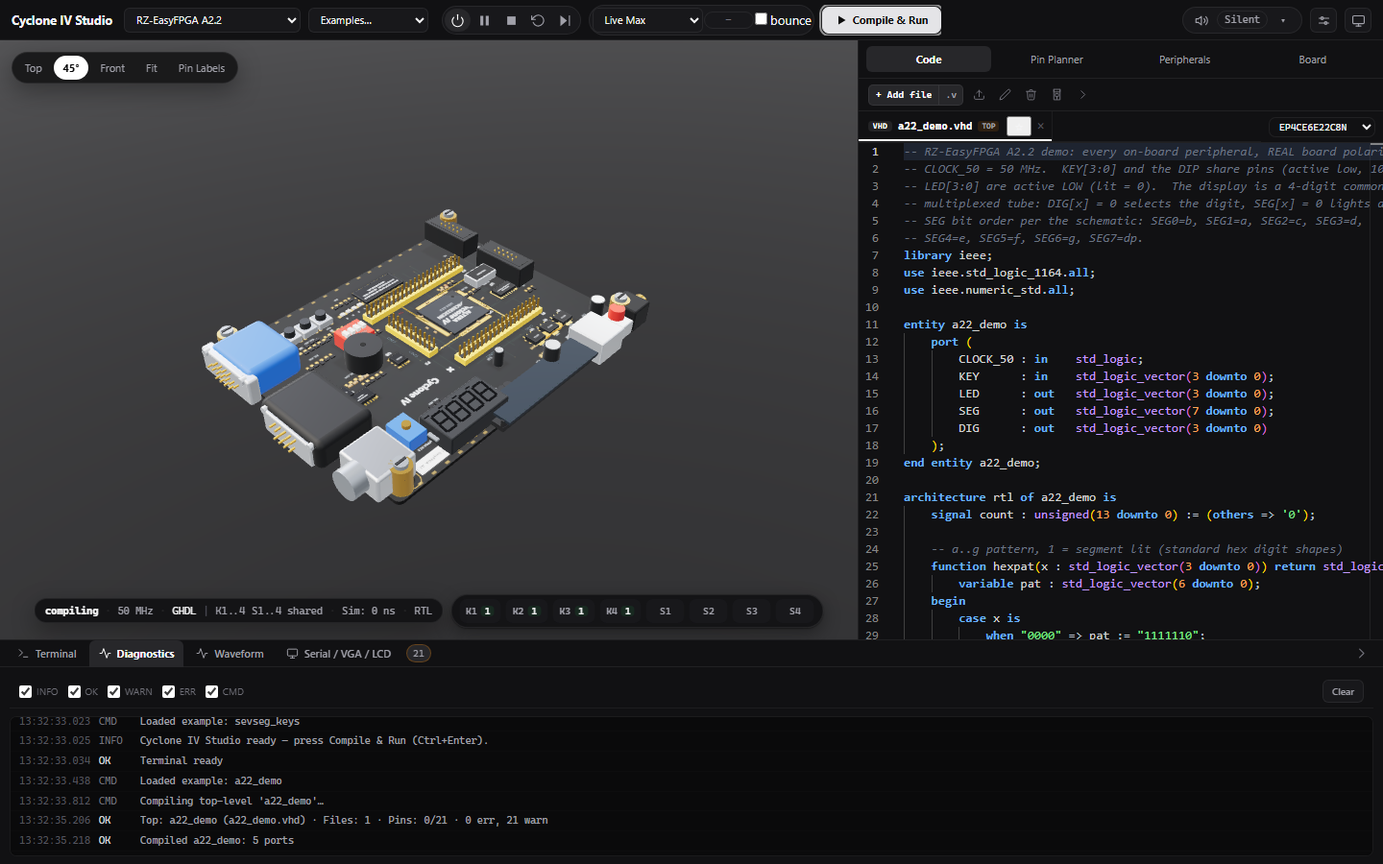
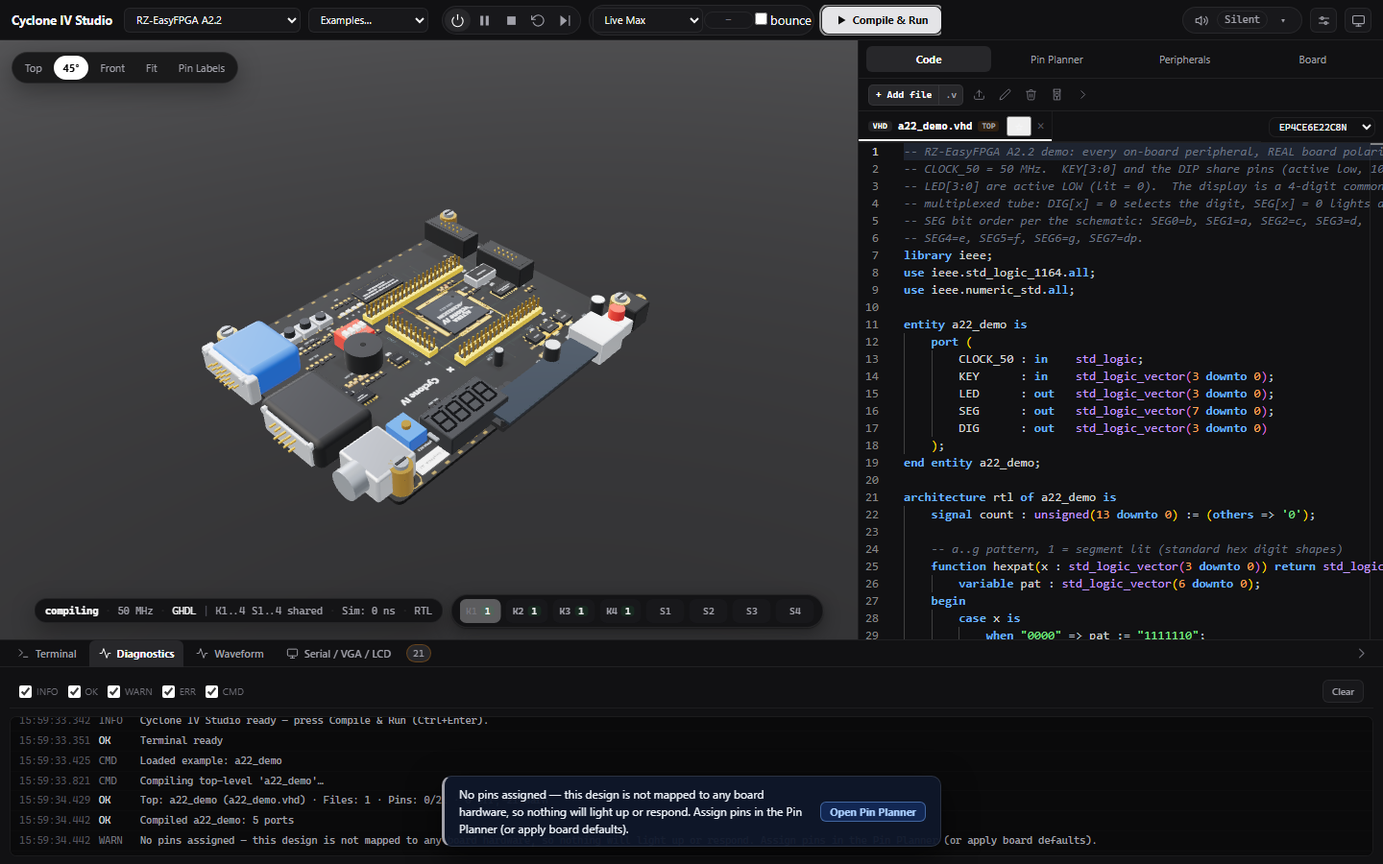
Notify when the Pin Planner has no assignments after compile
A design that compiles with an empty Pin Planner is not mapped to any board hardware: nothing lights up or responds. After a successful compile, the app now raises a warning toast (with an Open Pin Planner action), logs the same warning, and surfaces the per-port unassigned warnings that were already computed. The check is a pure helper (ui/pinCoverage.js) with vitest coverage; the Playwright smoke asserts the toast appears on a fresh compile.

Changed region(s): [[0.0312, 0.8089, 0.7812, 0.9956], [0.3125, 0.6844, 0.375, 0.7156]]

diff --git a/frontend/src/main.js b/frontend/src/main.js
@@ -11,6 +11,7 @@ import { ApiClient, SimSession } from "./api.js";
 import { createStore } from "./state.js";
 import { createToolbar } from "./ui/toolbar.js";
 import { isEditableTarget } from "./ui/editableGuard.js";
+import { pinCoverageWarning } from "./ui/pinCoverage.js";
 import { reduceLiveVga, reduceUartBytes } from "./liveFrame.js";
 import { createSidebar } from "./ui/sidebar.js";
 import { createEditorPanel } from "./ui/editorPanel.js";
@@ -1100,6 +1101,18 @@ async function compileAndProgram() {
     toolbar.setStep(1, "done");
     toolbar.setStep(2, "done");
     log(`Compiled ${S.entity.name}: ${S.entity.ports.length} ports`, "ok");
+
+    // Pin Planner coverage: a design that compiles but has no pin assignments
+    // is not mapped to any board hardware — nothing will light up or respond.
+    // Make that unmissable and hand the user the one-click fix.
+    const pinWarning = pinCoverageWarning(updatedPinPlan?.validation);
+    if (pinWarning) {
+        log(pinWarning, "warn");
+        toast(pinWarning, {
+            kind: "warn", timeout: 10000,
+            action: { label: "Open Pin Planner", onClick: () => safeCall(() => sidebar?.showTab?.("pinmap")) },
+        });
+    }
 
     safeCall(() => board?.setDesign?.(S.compileBoard));
     safeCall(() => board?.resetVisual?.());

diff --git a/frontend/src/ui/pinCoverage.test.js b/frontend/src/ui/pinCoverage.test.js
@@ -1,0 +1,23 @@
+import { describe, it, expect } from "vitest";
+import { pinCoverageWarning } from "./pinCoverage.js";
+
+describe("pinCoverageWarning", () => {
+    it("warns when nothing is assigned", () => {
+        const msg = pinCoverageWarning({ assignedCount: 0, unassignedCount: 21 });
+        expect(msg).toContain("No pins assigned");
+        expect(msg).toContain("Pin Planner");
+    });
+
+    it("stays silent when at least one port is assigned", () => {
+        expect(pinCoverageWarning({ assignedCount: 3, unassignedCount: 18 })).toBeNull();
+    });
+
+    it("stays silent when everything is assigned", () => {
+        expect(pinCoverageWarning({ assignedCount: 21, unassignedCount: 0 })).toBeNull();
+    });
+
+    it("treats a missing validation as nothing to warn about", () => {
+        expect(pinCoverageWarning(null)).toBeNull();
+        expect(pinCoverageWarning({})).toBeNull();
+    });
+});

diff --git a/frontend/src/ui/pinCoverage.js b/frontend/src/ui/pinCoverage.js
@@ -1,0 +1,20 @@
+// pinCoverage.js — pure helper deciding whether a compiled design is
+// missing its Pin Planner assignments (nothing mapped to board hardware).
+
+/**
+ * Returns a user-facing warning message when the compiled design has no pin
+ * assignments at all, or null when at least one port is assigned (or when
+ * there is nothing assignable — e.g. an empty interface).
+ */
+export function pinCoverageWarning(validation) {
+    const v = validation || {};
+    const assigned = Number(v.assignedCount ?? 0);
+    const unassigned = Number(v.unassignedCount ?? 0);
+    const assignable = assigned + unassigned;
+    if (assignable > 0 && assigned === 0) {
+        return "No pins assigned — this design is not mapped to any board hardware, "
+            + "so nothing will light up or respond. Assign pins in the Pin Planner "
+            + "(or apply board defaults).";
+    }
+    return null;
+}

diff --git a/frontend/e2e/live3d.spec.js b/frontend/e2e/live3d.spec.js
@@ -18,6 +18,12 @@ test("live 3D board smoke", async ({ page }) => {
     const exampleSelect = page.locator("#tb-examples");
     await exampleSelect.selectOption({ index: 1 }).catch(() => {});
     await page.locator("#tb-compile").click();
+
+    // The Pin Planner ships empty: the app must warn that no port is mapped
+    // to board hardware yet (actionable toast pointing at the Pin Planner).
+    await expect(page.locator(".toast-warn").filter({ hasText: "No pins assigned" }))
+        .toBeVisible({ timeout: 30_000 });
+
     // The live pill appears once the batch capture hands over to live mode.
     await expect(page.locator("#tb-live-pill")).toBeVisible({ timeout: 60_000 });
 

diff --git a/tests/RESULTS.md b/tests/RESULTS.md
@@ -1,10 +1,10 @@
 # QA results
 
-Generated: 2026-11-21 13:31:46
+Generated: 2026-11-21 16:09:07
 GHDL: GHDL 6.0.0 (6.0.0.r0.ge589c698c.dirty) [Dunoon edition]
-Wall time: 165.7s
+Wall time: 155.0s
 Jobs: 8
-Cache: 4 hits, 139 misses, 28 fallbacks
+Cache: 5 hits, 137 misses, 29 fallbacks
 Units: 250 passed (pytest tests/)
 Total: 236  PASS: 236  FAIL: 0
 
@@ -20,10 +20,10 @@ Total: 236  PASS: 236  FAIL: 0
 | IN-05B | QSF pin/top/IO-standard/file-list parsing is complete | QSF | TOP_LEVEL_ENTITY, 8 pin assignments, IO_STANDARD and file list all visible in the result | top, 8 pins, IO_STANDARD and file list parsed from the vendor .qsf | PASS |
 | IN-05C | QSF errors: invalid pin, duplicate pin, unknown port, wrong device | QSF | Each problem produces a specific error naming the pin/port; the simulation does not start | 4 specific errors: invalid pin, duplicate pin, unknown port, wrong device | PASS |
 | IN-08 | QSF pin assignments are validated against the top-level ports | QSF | A pin assigned to a port that exists is honoured; the missing-pin warning stays quiet for those ports | no unpinned-port warnings for ports the .qsf assigns | PASS |
-| IN-09 | VHDL syntax error reports file and line | VHDL | GHDL diagnostic with line number, no crash | ?:3: Expected ':' in interface declaration \| ?:1: Unexpected end of file inside entity declaration \| C:\Users\rober\AppData\Local\Temp\cyclone_compile_2xcf1wmw\design.vhd:3: interface declaration expected \| C:\Users\rob… | PASS |
+| IN-09 | VHDL syntax error reports file and line | VHDL | GHDL diagnostic with line number, no crash | ?:3: Expected ':' in interface declaration \| ?:1: Unexpected end of file inside entity declaration \| C:\Users\rober\AppData\Local\Temp\cyclone_compile_i9w8oo1a\design.vhd:3: interface declaration expected \| C:\Users\rob… | PASS |
 | IN-10 | Verilog syntax error reports file and line | Verilog | Diagnostic with line number naming the missing endmodule | design.vhd:1: Missing 'endmodule' for module 'broken' | PASS |
-| IN-11 | Unsupported Altera primitive gives a clear error | VHDL | Error names the unbound Altera megafunction (altsyncram/lpm_*) | c:\users\rober\appdata\local\temp\cyclone_qa_worker_jffh_4an\cache\sources\972673e3c3d96009ffb68150d6d3b862754c19218c822e19e358ac1a0380f471\design.vhd:84: instance "u_ram" of component "altsyncram" is not bound \| c:\use… | PASS |
-| IN-12 | Mixed-language project (VHDL top + Verilog submodule) | VHDL+Verilog | Malformed mixed input is rejected with a file:line diagnostic (split .vhd/.v files) | C:\Users\rober\AppData\Local\Temp\cyclone_qa_worker_a7od1_nh\cache\sources\982dd5b1e97dde689022d5eaa4a2bad027c7ebe00bf16a84a5614ba9a4676c11\design.vhd:11: missing entity, architecture, package or configuration \| C:\User… | PASS |
+| IN-11 | Unsupported Altera primitive gives a clear error | VHDL | Error names the unbound Altera megafunction (altsyncram/lpm_*) | c:\users\rober\appdata\local\temp\cyclone_qa_worker_vm2m7gli\cache\sources\972673e3c3d96009ffb68150d6d3b862754c19218c822e19e358ac1a0380f471\design.vhd:84: instance "u_ram" of component "altsyncram" is not bound \| c:\use… | PASS |
+| IN-12 | Mixed-language project (VHDL top + Verilog submodule) | VHDL+Verilog | Malformed mixed input is rejected with a file:line diagnostic (split .vhd/.v files) | C:\Users\rober\AppData\Local\Temp\cyclone_qa_worker_lwzhd5dz\cache\sources\982dd5b1e97dde689022d5eaa4a2bad027c7ebe00bf16a84a5614ba9a4676c11\design.vhd:11: missing entity, architecture, package or configuration \| C:\User… | PASS |
 | CLK-01 | Board clock frequency and pin are modelled | VHDL | CLOCK_50 = 50 MHz on pin PIN_23; the result reports the board frequency | CLOCK_50 = 50 MHz on PIN_23 | PASS |
 | CLK-02 | Counter at the real clock rate matches expected count after N ms | VHDL | 100 ns at 10 ns period, reset 2 cycles -> count = 8 | count=8 after 100 ns | PASS |
 | CLK-03 | Clock scaling makes a 1 Hz blinker visible in real time | VHDL | Scale factor reported; 1 Hz blinker toggles once per simulated second at 50 MHz | scale={'boardClockHz': 50000000, 'simClockHz': 100000000, 'scale': 2.0, 'note': 'simClockHz is the simulated clock rate; a design cycles the same number of clock ticks per simulated second as on the board, so wall-clock… | PASS |
@@ -102,8 +102,8 @@ Total: 236  PASS: 236  FAIL: 0
 | ENG-01 | Raw VCD export works from the CLI/keep-dir path | VHDL | VCD file is produced and matches the final LED value | VCD wave.vcd (1277 bytes) | PASS |
 | ENG-01B | Waveform export button/endpoint in the web UI | UI | A UI action downloads VCD/FST | Export VCD control present (frontend/src) | PASS |
 | ENG-02 | Waveform matches board state at the same timestamp | VHDL | Cycle samples and final state agree with LED/switch values | all 10 cycles agree (key_edge, 1 press) | PASS |
-| ENG-03 | Stop/cancel a running simulation | UI | sim_stop kills the server-side GHDL run and emits sim_stopped within 10 s (the uncanceled long_run fixture needs minutes of wall time) | sim_stopped after 0.06 s; whole cycle 4.5 s (uncanceled run: minutes) | PASS |
-| ENG-03B | Stop is a kill, not a wait: GHDL child exits promptly | API | Simulator.cancel() ends a minutes-long run within ~5 s | worker exited 0.1 s after cancel (killed=True) | PASS |
+| ENG-03 | Stop/cancel a running simulation | UI | sim_stop kills the server-side GHDL run and emits sim_stopped within 10 s (the uncanceled long_run fixture needs minutes of wall time) | sim_stopped after 0.10 s; whole cycle 4.3 s (uncanceled run: minutes) | PASS |
+| ENG-03B | Stop is a kill, not a wait: GHDL child exits promptly | API | Simulator.cancel() ends a minutes-long run within ~5 s | worker exited 0.0 s after cancel (killed=True) | PASS |
 | ENG-04 | Re-upload during a running sim leaves no stale state | VHDL | A second upload starts from a fresh temp directory | 0xFF then 0x00, no stale state | PASS |
 | ENG-11 | Server health reports GHDL | API | GET /api/health -> ok | GHDL 6.0.0 (6.0.0.r0.ge589c698c.dirty) [Dunoon edition] | PASS |
 | ENG-12 | Concurrent HTTP simulations are isolated | API | Two different designs run at the same time without interference | not-gate=0, buffer=1 concurrently | PASS |
@@ -134,7 +134,7 @@ Total: 236  PASS: 236  FAIL: 0
 | SPEC-11 | Device profile: 91 user I/O, both trainer chips selectable | infra | EP4CE6E22C8N and EP4CE10E22C8N both report 91 user I/O and the handbook resources | 91 user I/O on both variants; resources match the handbook | PASS |
 | SPEC-12 | Every pin in vendor/Pinos_RZEasyFPGA.txt matches the profile | infra | clock/reset/keys/LED/SEG/DIG/SDRAM/VGA/PS2/UART/I2C/IR/buzzer/LCD pins all agree | all 86 vendor pins match the simulator profile | PASS |
 | BJ-01 | board.json pinMap matches every vendor pin assignment | infra | all 86 vendor pins present with the same PIN numbers | 86 vendor pins match board.json | PASS |
-| BJ-02 | Every fact in board.json carries VERIFIED/INFERRED/UNVERIFIED | infra | 34 facts, all tagged, no empty sources | 39 facts tagged: {'VERIFIED': 33, 'INFERRED': 1, 'UNVERIFIED': 5} | PASS |
+| BJ-02 | Every fact in board.json carries VERIFIED/INFERRED/UNVERIFIED | infra | 34 facts, all tagged, no empty sources | 39 facts tagged: {'UNVERIFIED': 5, 'INFERRED': 1, 'VERIFIED': 33} | PASS |
 | BJ-03 | No hard-coded pin numbers in backend or frontend runtime code | infra | zero PIN_<number> literals outside board.json, specs and tests | scanned 24 runtime files, no PIN_<n> literals | PASS |
 | BJ-04 | Backend profile is loaded from board.json (not duplicated) | infra | BOARD pins, SEG map, I2C addresses and SDRAM DQ equal board.json | backend BOARD/DEVICE mirror board.json | PASS |
 | BJ-05 | All board.json pins are valid EQFP-144 and uniquely owned | infra | every pin in 1..144; only KEY/DIP share pins 88-91 by design | 90 pin entries; only KEY/DIP share nets | PASS |
@@ -171,7 +171,7 @@ Total: 236  PASS: 236  FAIL: 0
 | RB-01 | VHDL parser survives random binary garbage | fuzz | 200 random inputs: no exception, no hang | 200 random inputs parsed without an exception | PASS |
 | RB-02 | QSF parser survives garbage and a 1 MB file | fuzz | random garbage + 1 MB input: no exception, bounded time | garbage + 1 MB qsf parsed without an exception (0.07s) | PASS |
 | RB-03 | WebSocket survives malformed and unknown messages | WS | invalid JSON -> error; unknown type -> error; ping -> pong; connection stays open | malformed/unknown WS messages rejected; connection stayed open | PASS |
-| RB-04 | A huge VHDL file (5k lines) compiles without unbounded memory | VHDL | compile succeeds in bounded time | 5k-line VHDL compiled in 0.68s | PASS |
+| RB-04 | A huge VHDL file (5k lines) compiles without unbounded memory | VHDL | compile succeeds in bounded time | 5k-line VHDL compiled in 0.54s | PASS |
 | RB-05 | HDL textio with literal absolute host paths is rejected | VHDL | the pre-scan rejects the design with a clear error; no host file is written | absolute textio read+write rejected before GHDL (clear error, no host file written) | PASS |
 | RB-05B | Relative textio stays confined to the workdir and works | VHDL | a design that writes out.txt (relative) and reads it back passes end-to-end | relative textio write+read round-trips inside the throw-away workdir | PASS |
 | RB-06 | Concurrent simulations are isolated | VHDL | two designs run at once; each result matches its own design | two concurrent simulations isolated (not=0, buffer=1) | PASS |
@@ -183,7 +183,7 @@ Total: 236  PASS: 236  FAIL: 0
 | SEM-01 | Delta-cycle ordering: signal updates land on later edges | VHDL | a registered chain a->b->c: at edge 1 only a is new; b/c follow on later edges | signal updates propagate one edge per register: c lags a by two edges (seen=100) | PASS |
 | SEM-02 | Variable updates are immediate; signal updates are deferred | VHDL | q_var shows the new input one edge earlier than q_sig | q_var toggles immediately, q_sig one edge behind (16 vs 15 transitions) | PASS |
 | SEM-03 | std_logic resolution: 0/1/Z/X/U/H/L/- table | VHDL | 0&Z=0, 1&H=1, H alone=H, L&0=0, 0&1=X, undriven=U (RESULT bit i set per rule) | 0&Z=0, 1&H=1, H=H, L&0=0, 0&1=X, undriven=U — all six rules observed | PASS |
-| SEM-04 | Multiple drivers on an unresolved type are a clear error | VHDL | two processes drive one integer signal -> GHDL 'multiple drivers' error, no silent result | rejected with: C:\Users\rober\AppData\Local\Temp\cyclone_sim_u2bjl7_y\design.vhd:8: too many drivers for signal "comm" | PASS |
+| SEM-04 | Multiple drivers on an unresolved type are a clear error | VHDL | two processes drive one integer signal -> GHDL 'multiple drivers' error, no silent result | rejected with: C:\Users\rober\AppData\Local\Temp\cyclone_sim_f9amqcfe\design.vhd:8: too many drivers for signal "comm" | PASS |
 | SEM-05 | numeric_std overflow wraps (mod 2^n) | VHDL | unsigned 255+1 -> 0; signed 127+1 -> -128 (10000000) | unsigned 0xFF+1 -> 0x00; signed 0x7F+1 -> -128 (two's-complement wrap) | PASS |
 | SEM-06 | Generics change width and behaviour | VHDL | WIDTH=12 counter wraps at 4095; WIDTH=4 wraps at 15 | WIDTH=4 -> q=10 (max 15); WIDTH=12 -> q=10 (max 4095); same stimulus | PASS |
 | SEM-07 | Generate loop instantiates N parallel slices | VHDL | 8 independent inverter slices; changing one input bit changes exactly that output bit | 8 slices generated; d=0x05 -> 11111010, d=0x01 -> 11111110 (only the toggled bit changed) | PASS |
@@ -220,7 +220,7 @@ Total: 236  PASS: 236  FAIL: 0
 | TSC-05 | 7-segment scan rate scales with the clock period | VHDL | the digit-select toggle period doubles when the clock period doubles | 7-seg digit toggle 20.0 ns at 10 ns clock vs 40.0 ns at 20 ns (ratio 2.00) | PASS |
 | DET-01 | The same request twice produces identical waveforms | VHDL | two identical simulations: identical signal transitions, cycles and final state | identical waveforms over 30 cycles (cache hit on the repeat) | PASS |
 | DET-02 | Two Simulator instances share no state | VHDL | a cached and an uncached Simulator return identical, independent results | cached and uncached Simulators agree; instance reuse does not leak state | PASS |
-| DET-03 | Runs leave no stale temp directories or zombie GHDL processes | infra | temp dir count and ghdl.exe process count return to baseline after simulations | 3 runs: temp dirs 21->18, ghdl processes 1->0 (no zombies, no stale dirs) | PASS |
+| DET-03 | Runs leave no stale temp directories or zombie GHDL processes | infra | temp dir count and ghdl.exe process count return to baseline after simulations | 3 runs: temp dirs 23->22, ghdl processes 4->3 (no zombies, no stale dirs) | PASS |
 | QSIM-01 | Differential: counter - backend vs ModelSim (Quartus toolchain) | VHDL | every port's value timeline is identical between the backend waveform and ModelSim-Altera running the same design + auto testbench | counter: 3 ports identical between backend.simulate() and ModelSim win32aloem | PASS |
 | QSIM-02 | Differential: FSM (Moore traffic light) - backend vs ModelSim (Quartus toolchain) | VHDL | every port's value timeline is identical between the backend waveform and ModelSim-Altera running the same design + auto testbench | traffic_moore: 5 ports identical between backend.simulate() and ModelSim win32aloem | PASS |
 | QSIM-03 | Differential: dual-port RAM - backend vs ModelSim (Quartus toolchain) | VHDL | every port's value timeline is identical between the backend waveform and ModelSim-Altera running the same design + auto testbench | ram_dp: 7 ports identical between backend.simulate() and ModelSim win32aloem | PASS |
@@ -228,10 +228,10 @@ Total: 236  PASS: 236  FAIL: 0
 | QSIM-05 | Differential: 7-segment decoder - backend vs ModelSim (Quartus toolchain) | VHDL | every port's value timeline is identical between the backend waveform and ModelSim-Altera running the same design + auto testbench | seven_segment: 2 ports identical between backend.simulate() and ModelSim win32aloem | PASS |
 | RF-01 | Malformed VHDL is rejected with a clear error, never a crash | VHDL | truncated/garbled VHDL -> ok=False with a diagnostic; the server stays usable | 5 malformed sources rejected with diagnostics; backend still healthy | PASS |
 | RF-02 | Random binary garbage is handled without a crash | fuzz | 300 random byte strings through simulate/compile: no exception, no hang | 300 random garbage inputs handled without an exception | PASS |
-| RF-03 | An oversized upload is handled in bounded time and memory | VHDL | a 2 MB design (valid but huge) compiles without unbounded memory or a hang | 1903 KiB upload compiled in 6.2s | PASS |
+| RF-03 | An oversized upload is handled in bounded time and memory | VHDL | a 2 MB design (valid but huge) compiles without unbounded memory or a hang | 1903 KiB upload compiled in 3.1s | PASS |
 | RF-04 | Empty and whitespace-only inputs give a clear error | VHDL | empty source -> 'no entity' style error, not a crash or a silent pass | empty inputs rejected with a clear no-entity error | PASS |
 | RF-05 | WebSocket survives hostile message shapes | WS | arrays, strings, numbers, deep nesting and huge payloads all get error replies; the socket stays open | 10 hostile WS messages answered with errors; connection stayed open | PASS |
-| RF-06 | A runaway design hits the scaled GHDL timeout with a clear message | VHDL | with GHDL_TIMEOUT=3 the infinite-loop design fails with 'timed out after 3 s' and a runaway hint | runaway design stopped by the scaled timeout in 4.2s: ghdl:0: GHDL timed out after 3 s of wall time — possible runaway design (an infinite loop without a wait statement?) or | PASS |
+| RF-06 | A runaway design hits the scaled GHDL timeout with a clear message | VHDL | with GHDL_TIMEOUT=3 the infinite-loop design fails with 'timed out after 3 s' and a runaway hint | runaway design stopped by the scaled timeout in 3.4s: ghdl:0: GHDL timed out after 3 s of wall time — possible runaway design (an infinite loop without a wait statement?) or | PASS |
 | RF-07 | Sandbox reality: literal absolute textio paths are rejected; runs stay isolated | VHDL | the pre-scan rejects the design with a clear error, the host file is never read and no temp dir is left behind | Honest statement: the absolute-path design is rejected before GHDL runs (no host read); per-run isolation comes from throw-away tempdirs, and this run left none behind | PASS |
 | DIF-01 | Differential: counter - backend vs raw GHDL VCD | VHDL | every port's transition list is identical between the backend waveform and an independent raw GHDL run | counter: 3 ports identical between backend.simulate() and raw GHDL VCD | PASS |
 | DIF-02 | Differential: FSM (Moore traffic light) - backend vs raw GHDL VCD | VHDL | every port's transition list is identical between the backend waveform and an independent raw GHDL run | traffic_moore: 5 ports identical between backend.simulate() and raw GHDL VCD | PASS |

diff --git a/tests/TEST_TABLE.md b/tests/TEST_TABLE.md
@@ -1,6 +1,6 @@
 # Test table — every executed QA case
 
-Generated: 2026-11-21 13:31:46
+Generated: 2026-11-21 16:09:07
 Total: 236  PASS: 236  FAIL: 0
 
 | ID | What | Expected | Observed | Result |
@@ -15,10 +15,10 @@ Total: 236  PASS: 236  FAIL: 0
 | IN-05B | QSF pin/top/IO-standard/file-list parsing is complete | TOP_LEVEL_ENTITY, 8 pin assignments, IO_STANDARD and file list all visible in the result | top, 8 pins, IO_STANDARD and file list parsed from the vendor .qsf | PASS |
 | IN-05C | QSF errors: invalid pin, duplicate pin, unknown port, wrong device | Each problem produces a specific error naming the pin/port; the simulation does not start | 4 specific errors: invalid pin, duplicate pin, unknown port, wrong device | PASS |
 | IN-08 | QSF pin assignments are validated against the top-level ports | A pin assigned to a port that exists is honoured; the missing-pin warning stays quiet for those ports | no unpinned-port warnings for ports the .qsf assigns | PASS |
-| IN-09 | VHDL syntax error reports file and line | GHDL diagnostic with line number, no crash | ?:3: Expected ':' in interface declaration \| ?:1: Unexpected end of file inside entity declaration \| C:\Users\rober\AppData\Local\Temp\cyclone_compile_2xcf1wmw\design.vhd:3: interface declaration expected \| C:\Users\rob… | PASS |
+| IN-09 | VHDL syntax error reports file and line | GHDL diagnostic with line number, no crash | ?:3: Expected ':' in interface declaration \| ?:1: Unexpected end of file inside entity declaration \| C:\Users\rober\AppData\Local\Temp\cyclone_compile_i9w8oo1a\design.vhd:3: interface declaration expected \| C:\Users\rob… | PASS |
 | IN-10 | Verilog syntax error reports file and line | Diagnostic with line number naming the missing endmodule | design.vhd:1: Missing 'endmodule' for module 'broken' | PASS |
-| IN-11 | Unsupported Altera primitive gives a clear error | Error names the unbound Altera megafunction (altsyncram/lpm_*) | c:\users\rober\appdata\local\temp\cyclone_qa_worker_jffh_4an\cache\sources\972673e3c3d96009ffb68150d6d3b862754c19218c822e19e358ac1a0380f471\design.vhd:84: instance "u_ram" of component "altsyncram" is not bound \| c:\use… | PASS |
-| IN-12 | Mixed-language project (VHDL top + Verilog submodule) | Malformed mixed input is rejected with a file:line diagnostic (split .vhd/.v files) | C:\Users\rober\AppData\Local\Temp\cyclone_qa_worker_a7od1_nh\cache\sources\982dd5b1e97dde689022d5eaa4a2bad027c7ebe00bf16a84a5614ba9a4676c11\design.vhd:11: missing entity, architecture, package or configuration \| C:\User… | PASS |
+| IN-11 | Unsupported Altera primitive gives a clear error | Error names the unbound Altera megafunction (altsyncram/lpm_*) | c:\users\rober\appdata\local\temp\cyclone_qa_worker_vm2m7gli\cache\sources\972673e3c3d96009ffb68150d6d3b862754c19218c822e19e358ac1a0380f471\design.vhd:84: instance "u_ram" of component "altsyncram" is not bound \| c:\use… | PASS |
+| IN-12 | Mixed-language project (VHDL top + Verilog submodule) | Malformed mixed input is rejected with a file:line diagnostic (split .vhd/.v files) | C:\Users\rober\AppData\Local\Temp\cyclone_qa_worker_lwzhd5dz\cache\sources\982dd5b1e97dde689022d5eaa4a2bad027c7ebe00bf16a84a5614ba9a4676c11\design.vhd:11: missing entity, architecture, package or configuration \| C:\User… | PASS |
 | CLK-01 | Board clock frequency and pin are modelled | CLOCK_50 = 50 MHz on pin PIN_23; the result reports the board frequency | CLOCK_50 = 50 MHz on PIN_23 | PASS |
 | CLK-02 | Counter at the real clock rate matches expected count after N ms | 100 ns at 10 ns period, reset 2 cycles -> count = 8 | count=8 after 100 ns | PASS |
 | CLK-03 | Clock scaling makes a 1 Hz blinker visible in real time | Scale factor reported; 1 Hz blinker toggles once per simulated second at 50 MHz | scale={'boardClockHz': 50000000, 'simClockHz': 100000000, 'scale': 2.0, 'note': 'simClockHz is the simulated clock rate; a design cycles the same number of clock ticks per simulated second as on the board, so wall-clock… | PASS |
@@ -97,8 +97,8 @@ Total: 236  PASS: 236  FAIL: 0
 | ENG-01 | Raw VCD export works from the CLI/keep-dir path | VCD file is produced and matches the final LED value | VCD wave.vcd (1277 bytes) | PASS |
 | ENG-01B | Waveform export button/endpoint in the web UI | A UI action downloads VCD/FST | Export VCD control present (frontend/src) | PASS |
 | ENG-02 | Waveform matches board state at the same timestamp | Cycle samples and final state agree with LED/switch values | all 10 cycles agree (key_edge, 1 press) | PASS |
-| ENG-03 | Stop/cancel a running simulation | sim_stop kills the server-side GHDL run and emits sim_stopped within 10 s (the uncanceled long_run fixture needs minutes of wall time) | sim_stopped after 0.06 s; whole cycle 4.5 s (uncanceled run: minutes) | PASS |
-| ENG-03B | Stop is a kill, not a wait: GHDL child exits promptly | Simulator.cancel() ends a minutes-long run within ~5 s | worker exited 0.1 s after cancel (killed=True) | PASS |
+| ENG-03 | Stop/cancel a running simulation | sim_stop kills the server-side GHDL run and emits sim_stopped within 10 s (the uncanceled long_run fixture needs minutes of wall time) | sim_stopped after 0.10 s; whole cycle 4.3 s (uncanceled run: minutes) | PASS |
+| ENG-03B | Stop is a kill, not a wait: GHDL child exits promptly | Simulator.cancel() ends a minutes-long run within ~5 s | worker exited 0.0 s after cancel (killed=True) | PASS |
 | ENG-04 | Re-upload during a running sim leaves no stale state | A second upload starts from a fresh temp directory | 0xFF then 0x00, no stale state | PASS |
 | ENG-11 | Server health reports GHDL | GET /api/health -> ok | GHDL 6.0.0 (6.0.0.r0.ge589c698c.dirty) [Dunoon edition] | PASS |
 | ENG-12 | Concurrent HTTP simulations are isolated | Two different designs run at the same time without interference | not-gate=0, buffer=1 concurrently | PASS |
@@ -129,7 +129,7 @@ Total: 236  PASS: 236  FAIL: 0
 | SPEC-11 | Device profile: 91 user I/O, both trainer chips selectable | EP4CE6E22C8N and EP4CE10E22C8N both report 91 user I/O and the handbook resources | 91 user I/O on both variants; resources match the handbook | PASS |
 | SPEC-12 | Every pin in vendor/Pinos_RZEasyFPGA.txt matches the profile | clock/reset/keys/LED/SEG/DIG/SDRAM/VGA/PS2/UART/I2C/IR/buzzer/LCD pins all agree | all 86 vendor pins match the simulator profile | PASS |
 | BJ-01 | board.json pinMap matches every vendor pin assignment | all 86 vendor pins present with the same PIN numbers | 86 vendor pins match board.json | PASS |
-| BJ-02 | Every fact in board.json carries VERIFIED/INFERRED/UNVERIFIED | 34 facts, all tagged, no empty sources | 39 facts tagged: {'VERIFIED': 33, 'INFERRED': 1, 'UNVERIFIED': 5} | PASS |
+| BJ-02 | Every fact in board.json carries VERIFIED/INFERRED/UNVERIFIED | 34 facts, all tagged, no empty sources | 39 facts tagged: {'UNVERIFIED': 5, 'INFERRED': 1, 'VERIFIED': 33} | PASS |
 | BJ-03 | No hard-coded pin numbers in backend or frontend runtime code | zero PIN_<number> literals outside board.json, specs and tests | scanned 24 runtime files, no PIN_<n> literals | PASS |
 | BJ-04 | Backend profile is loaded from board.json (not duplicated) | BOARD pins, SEG map, I2C addresses and SDRAM DQ equal board.json | backend BOARD/DEVICE mirror board.json | PASS |
 | BJ-05 | All board.json pins are valid EQFP-144 and uniquely owned | every pin in 1..144; only KEY/DIP share pins 88-91 by design | 90 pin entries; only KEY/DIP share nets | PASS |
@@ -166,7 +166,7 @@ Total: 236  PASS: 236  FAIL: 0
 | RB-01 | VHDL parser survives random binary garbage | 200 random inputs: no exception, no hang | 200 random inputs parsed without an exception | PASS |
 | RB-02 | QSF parser survives garbage and a 1 MB file | random garbage + 1 MB input: no exception, bounded time | garbage + 1 MB qsf parsed without an exception (0.07s) | PASS |
 | RB-03 | WebSocket survives malformed and unknown messages | invalid JSON -> error; unknown type -> error; ping -> pong; connection stays open | malformed/unknown WS messages rejected; connection stayed open | PASS |
-| RB-04 | A huge VHDL file (5k lines) compiles without unbounded memory | compile succeeds in bounded time | 5k-line VHDL compiled in 0.68s | PASS |
+| RB-04 | A huge VHDL file (5k lines) compiles without unbounded memory | compile succeeds in bounded time | 5k-line VHDL compiled in 0.54s | PASS |
 | RB-05 | HDL textio with literal absolute host paths is rejected | the pre-scan rejects the design with a clear error; no host file is written | absolute textio read+write rejected before GHDL (clear error, no host file written) | PASS |
 | RB-05B | Relative textio stays confined to the workdir and works | a design that writes out.txt (relative) and reads it back passes end-to-end | relative textio write+read round-trips inside the throw-away workdir | PASS |
 | RB-06 | Concurrent simulations are isolated | two designs run at once; each result matches its own design | two concurrent simulations isolated (not=0, buffer=1) | PASS |
@@ -178,7 +178,7 @@ Total: 236  PASS: 236  FAIL: 0
 | SEM-01 | Delta-cycle ordering: signal updates land on later edges | a registered chain a->b->c: at edge 1 only a is new; b/c follow on later edges | signal updates propagate one edge per register: c lags a by two edges (seen=100) | PASS |
 | SEM-02 | Variable updates are immediate; signal updates are deferred | q_var shows the new input one edge earlier than q_sig | q_var toggles immediately, q_sig one edge behind (16 vs 15 transitions) | PASS |
 | SEM-03 | std_logic resolution: 0/1/Z/X/U/H/L/- table | 0&Z=0, 1&H=1, H alone=H, L&0=0, 0&1=X, undriven=U (RESULT bit i set per rule) | 0&Z=0, 1&H=1, H=H, L&0=0, 0&1=X, undriven=U — all six rules observed | PASS |
-| SEM-04 | Multiple drivers on an unresolved type are a clear error | two processes drive one integer signal -> GHDL 'multiple drivers' error, no silent result | rejected with: C:\Users\rober\AppData\Local\Temp\cyclone_sim_u2bjl7_y\design.vhd:8: too many drivers for signal "comm" | PASS |
+| SEM-04 | Multiple drivers on an unresolved type are a clear error | two processes drive one integer signal -> GHDL 'multiple drivers' error, no silent result | rejected with: C:\Users\rober\AppData\Local\Temp\cyclone_sim_f9amqcfe\design.vhd:8: too many drivers for signal "comm" | PASS |
 | SEM-05 | numeric_std overflow wraps (mod 2^n) | unsigned 255+1 -> 0; signed 127+1 -> -128 (10000000) | unsigned 0xFF+1 -> 0x00; signed 0x7F+1 -> -128 (two's-complement wrap) | PASS |
 | SEM-06 | Generics change width and behaviour | WIDTH=12 counter wraps at 4095; WIDTH=4 wraps at 15 | WIDTH=4 -> q=10 (max 15); WIDTH=12 -> q=10 (max 4095); same stimulus | PASS |
 | SEM-07 | Generate loop instantiates N parallel slices | 8 independent inverter slices; changing one input bit changes exactly that output bit | 8 slices generated; d=0x05 -> 11111010, d=0x01 -> 11111110 (only the toggled bit changed) | PASS |
@@ -215,7 +215,7 @@ Total: 236  PASS: 236  FAIL: 0
 | TSC-05 | 7-segment scan rate scales with the clock period | the digit-select toggle period doubles when the clock period doubles | 7-seg digit toggle 20.0 ns at 10 ns clock vs 40.0 ns at 20 ns (ratio 2.00) | PASS |
 | DET-01 | The same request twice produces identical waveforms | two identical simulations: identical signal transitions, cycles and final state | identical waveforms over 30 cycles (cache hit on the repeat) | PASS |
 | DET-02 | Two Simulator instances share no state | a cached and an uncached Simulator return identical, independent results | cached and uncached Simulators agree; instance reuse does not leak state | PASS |
-| DET-03 | Runs leave no stale temp directories or zombie GHDL processes | temp dir count and ghdl.exe process count return to baseline after simulations | 3 runs: temp dirs 21->18, ghdl processes 1->0 (no zombies, no stale dirs) | PASS |
+| DET-03 | Runs leave no stale temp directories or zombie GHDL processes | temp dir count and ghdl.exe process count return to baseline after simulations | 3 runs: temp dirs 23->22, ghdl processes 4->3 (no zombies, no stale dirs) | PASS |
 | QSIM-01 | Differential: counter - backend vs ModelSim (Quartus toolchain) | every port's value timeline is identical between the backend waveform and ModelSim-Altera running the same design + auto testbench | counter: 3 ports identical between backend.simulate() and ModelSim win32aloem | PASS |
 | QSIM-02 | Differential: FSM (Moore traffic light) - backend vs ModelSim (Quartus toolchain) | every port's value timeline is identical between the backend waveform and ModelSim-Altera running the same design + auto testbench | traffic_moore: 5 ports identical between backend.simulate() and ModelSim win32aloem | PASS |
 | QSIM-03 | Differential: dual-port RAM - backend vs ModelSim (Quartus toolchain) | every port's value timeline is identical between the backend waveform and ModelSim-Altera running the same design + auto testbench | ram_dp: 7 ports identical between backend.simulate() and ModelSim win32aloem | PASS |
@@ -223,10 +223,10 @@ Total: 236  PASS: 236  FAIL: 0
 | QSIM-05 | Differential: 7-segment decoder - backend vs ModelSim (Quartus toolchain) | every port's value timeline is identical between the backend waveform and ModelSim-Altera running the same design + auto testbench | seven_segment: 2 ports identical between backend.simulate() and ModelSim win32aloem | PASS |
 | RF-01 | Malformed VHDL is rejected with a clear error, never a crash | truncated/garbled VHDL -> ok=False with a diagnostic; the server stays usable | 5 malformed sources rejected with diagnostics; backend still healthy | PASS |
 | RF-02 | Random binary garbage is handled without a crash | 300 random byte strings through simulate/compile: no exception, no hang | 300 random garbage inputs handled without an exception | PASS |
-| RF-03 | An oversized upload is handled in bounded time and memory | a 2 MB design (valid but huge) compiles without unbounded memory or a hang | 1903 KiB upload compiled in 6.2s | PASS |
+| RF-03 | An oversized upload is handled in bounded time and memory | a 2 MB design (valid but huge) compiles without unbounded memory or a hang | 1903 KiB upload compiled in 3.1s | PASS |
 | RF-04 | Empty and whitespace-only inputs give a clear error | empty source -> 'no entity' style error, not a crash or a silent pass | empty inputs rejected with a clear no-entity error | PASS |
 | RF-05 | WebSocket survives hostile message shapes | arrays, strings, numbers, deep nesting and huge payloads all get error replies; the socket stays open | 10 hostile WS messages answered with errors; connection stayed open | PASS |
-| RF-06 | A runaway design hits the scaled GHDL timeout with a clear message | with GHDL_TIMEOUT=3 the infinite-loop design fails with 'timed out after 3 s' and a runaway hint | runaway design stopped by the scaled timeout in 4.2s: ghdl:0: GHDL timed out after 3 s of wall time — possible runaway design (an infinite loop without a wait statement?) or | PASS |
+| RF-06 | A runaway design hits the scaled GHDL timeout with a clear message | with GHDL_TIMEOUT=3 the infinite-loop design fails with 'timed out after 3 s' and a runaway hint | runaway design stopped by the scaled timeout in 3.4s: ghdl:0: GHDL timed out after 3 s of wall time — possible runaway design (an infinite loop without a wait statement?) or | PASS |
 | RF-07 | Sandbox reality: literal absolute textio paths are rejected; runs stay isolated | the pre-scan rejects the design with a clear error, the host file is never read and no temp dir is left behind | Honest statement: the absolute-path design is rejected before GHDL runs (no host read); per-run isolation comes from throw-away tempdirs, and this run left none behind | PASS |
 | DIF-01 | Differential: counter - backend vs raw GHDL VCD | every port's transition list is identical between the backend waveform and an independent raw GHDL run | counter: 3 ports identical between backend.simulate() and raw GHDL VCD | PASS |
 | DIF-02 | Differential: FSM (Moore traffic light) - backend vs raw GHDL VCD | every port's transition list is identical between the backend waveform and an independent raw GHDL run | traffic_moore: 5 ports identical between backend.simulate() and raw GHDL VCD | PASS |
